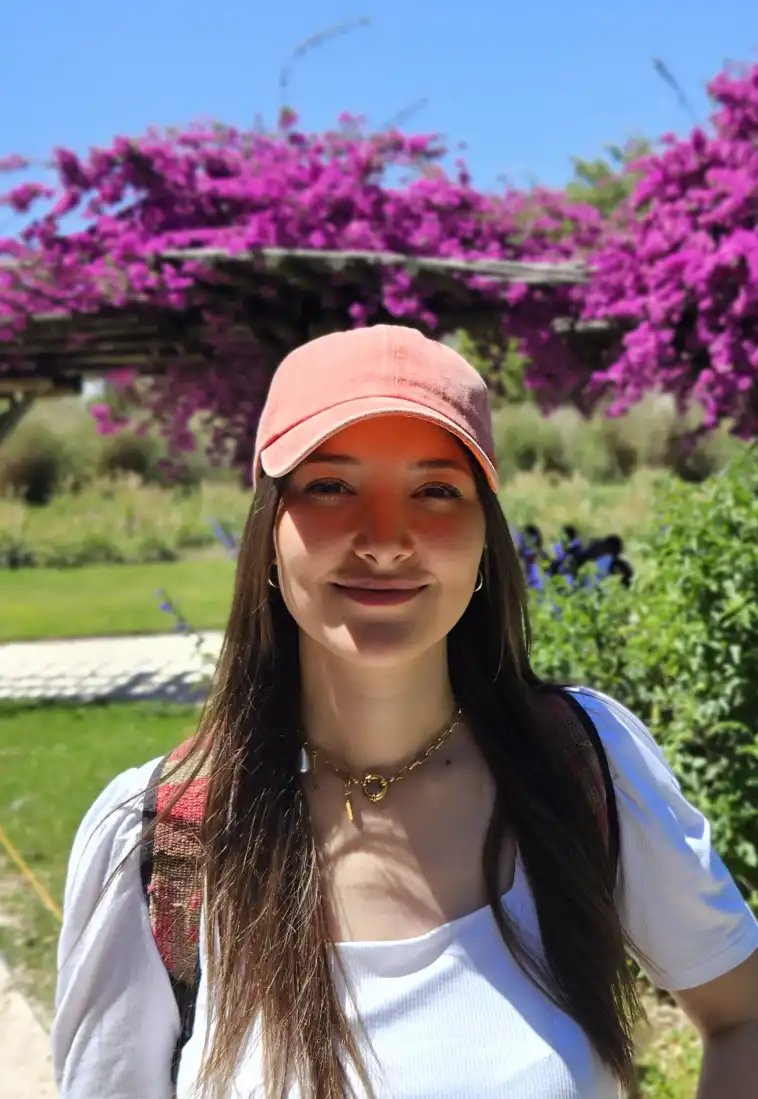
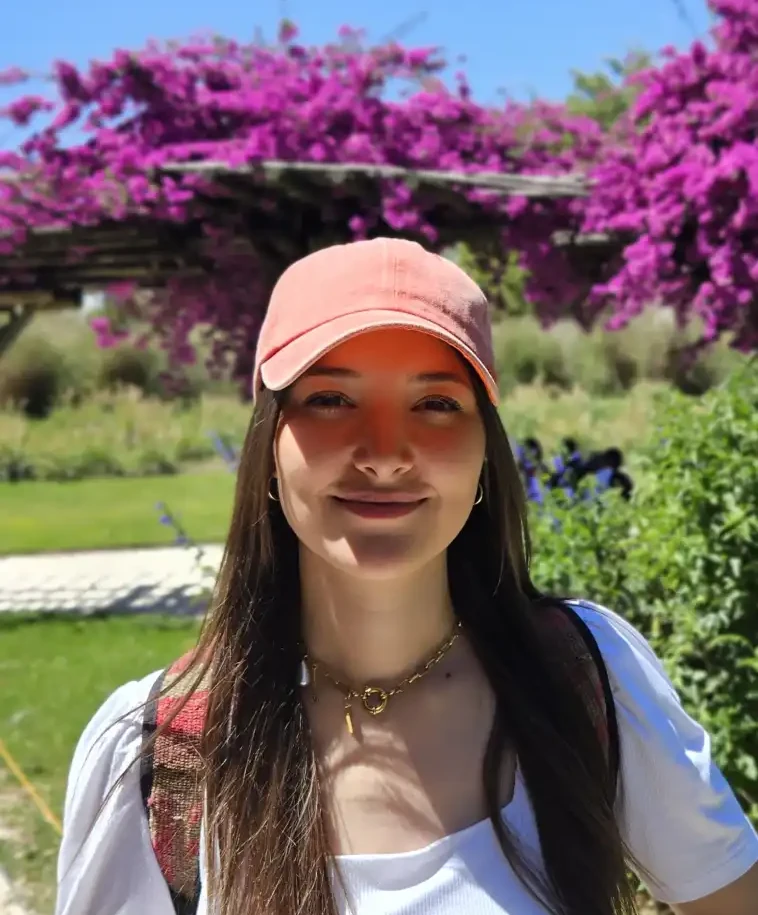
load an updated student picture and changed the about me text

diff --git a/index.html b/index.html
@@ -46,10 +46,7 @@
         <div class="container">
             <section class="first">
                 <h2>About Me</h2>
-                <p id="text">Lorem ipsum dolor sit amet, consectetur adipiscing elit. Nam aliquam neque non erat congue porta. Aliquam enim enim,
-                interdum eu tellus eu, convallis blandit quam. Fusce maximus mauris efficitur facilisis volutpat. Aliquam erat volutpat.
-                Sed eget ornare ex. Donec mollis tincidunt lacinia. Suspendisse potenti. Proin mauris tellus, tincidunt in mattis et,
-                hendrerit at lorem. Quisque laoreet odio et nisl mattis, quis ultrices tortor convallis.</p>
+                <p id="text">Hello! My name is Karen Mahr and I am from Buenos Aires, Argentina. After a long day at work, I like to do things that relax me and bring me peace. I like reading, mostly suspense plots, I love watching movies with my husband, and trying new recipes. On weekends I have a lot of fun hanging out with my family and friends, going to the movies and doing outdoor activities.</p>
             </section>
 
             <section class="second">
